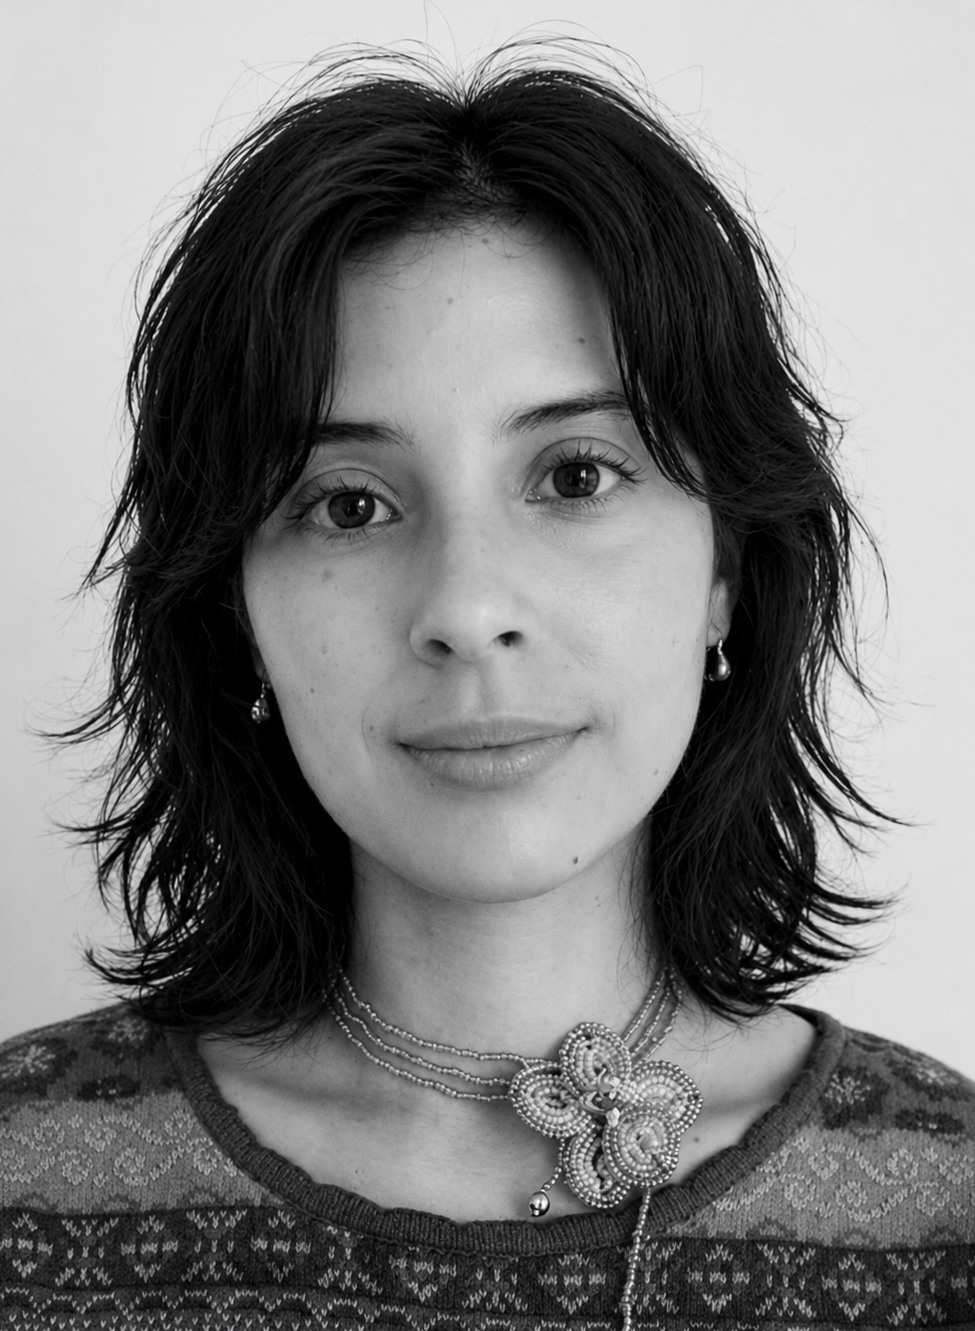
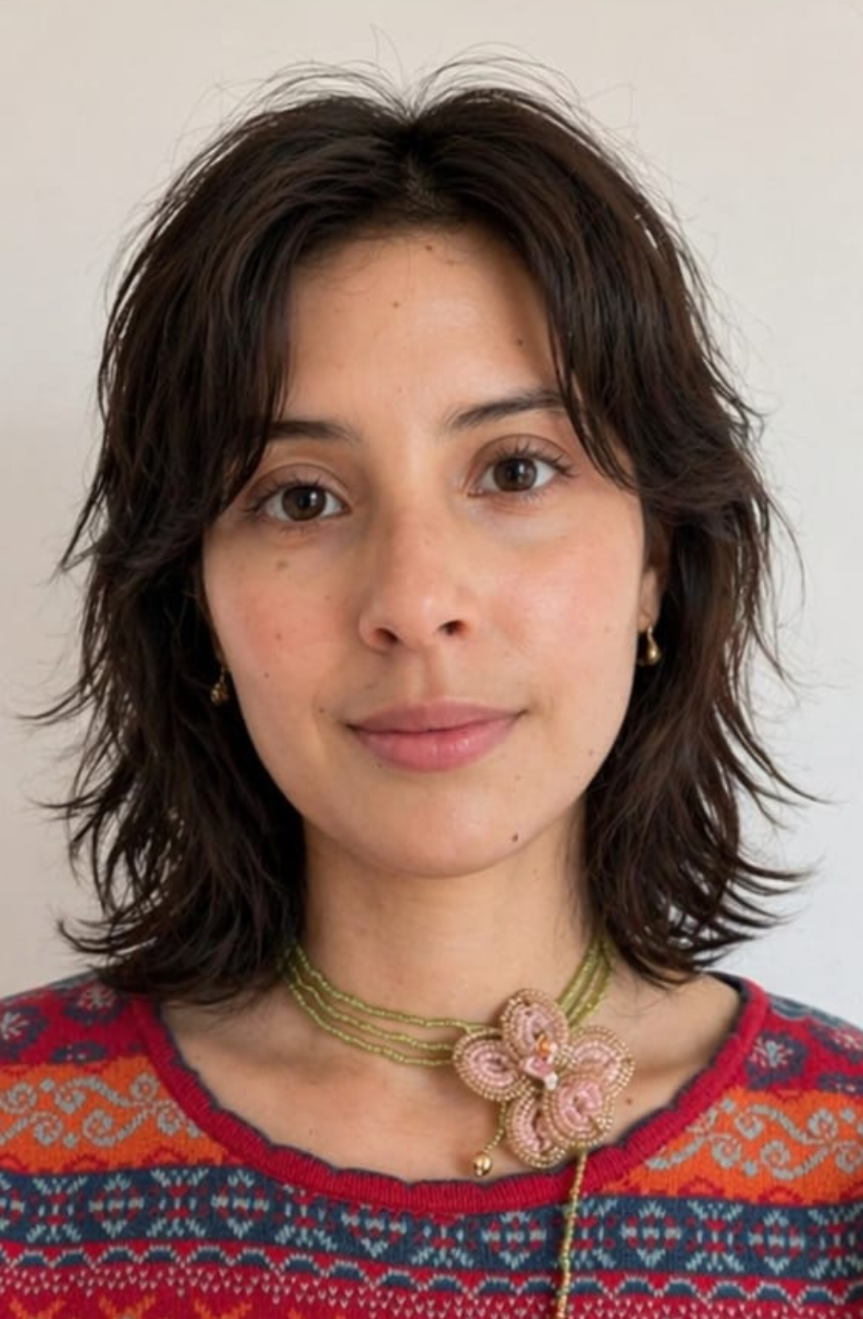
add color theme

diff --git a/assets/css/schemes/neidel.css b/assets/css/schemes/neidel.css
@@ -1,0 +1,34 @@
+/* Midnight Gold scheme */
+:root {
+  --color-neutral: 244, 241, 250; /* light mode background / dark mode text */
+  --color-neutral-50: 250, 249, 252;
+  --color-neutral-100: 244, 241, 250;
+  --color-neutral-200: 232, 227, 242;
+  --color-neutral-300: 200, 193, 216; /* #C8C1D8 */
+  --color-neutral-400: 147, 138, 165; /* #938AA5 */
+  --color-neutral-500: 103, 96, 120;
+  --color-neutral-600: 64, 58, 80;
+  --color-neutral-700: 42, 36, 56; /* #2A2438 (borders on dark) */
+  --color-neutral-800: 13, 11, 20; /* #0D0B14 dark mode background */
+  --color-neutral-900: 26, 24, 36; /* readable light mode text */
+  --color-primary-50: 244, 240, 255;
+  --color-primary-100: 225, 216, 255;
+  --color-primary-200: 205, 190, 255;
+  --color-primary-300: 189, 167, 255; /* #BDA7FF (rare highlight) */
+  --color-primary-400: 166, 138, 255;
+  --color-primary-500: 142, 92, 246; /* #8E5CF6 (focus/active) */
+  --color-primary-600: 116, 83, 173; /* restrained mid purple */
+  --color-primary-700: 91, 44, 207; /* #5B2CCF (very rare) */
+  --color-primary-800: 74, 44, 122; /* deep atmospheric purple */
+  --color-primary-900: 42, 22, 79; /* near-black purple */
+  --color-secondary-50: 238, 253, 252;
+  --color-secondary-100: 210, 250, 247;
+  --color-secondary-200: 166, 242, 236;
+  --color-secondary-300: 115, 231, 224;
+  --color-secondary-400: 63, 217, 208;
+  --color-secondary-500: 31, 199, 190; /* #1FC7BE */
+  --color-secondary-600: 24, 159, 152;
+  --color-secondary-700: 20, 122, 117;
+  --color-secondary-800: 15, 86, 83;
+  --color-secondary-900: 10, 55, 54;
+}